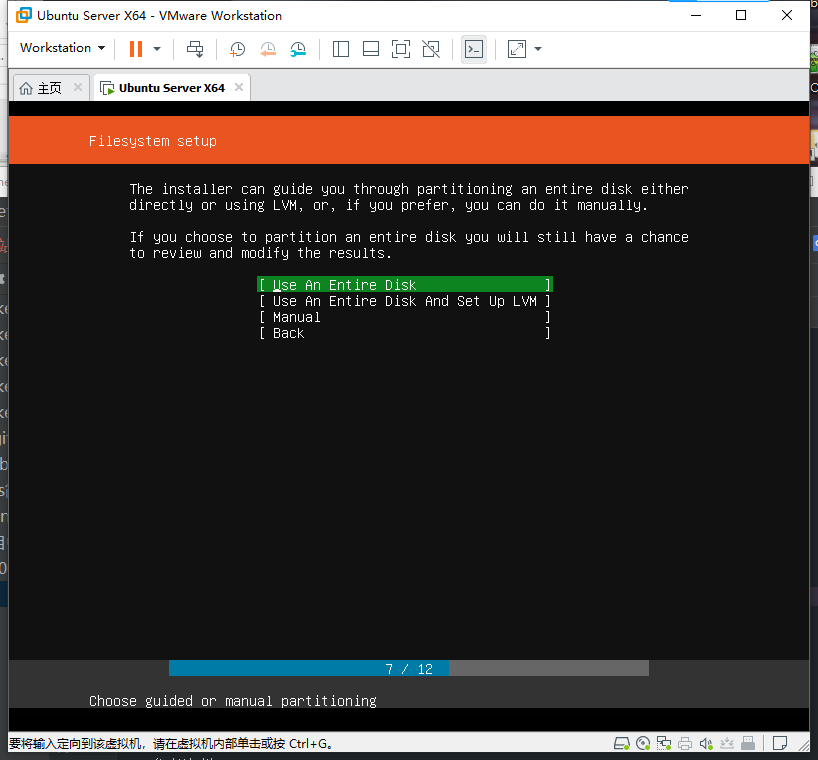
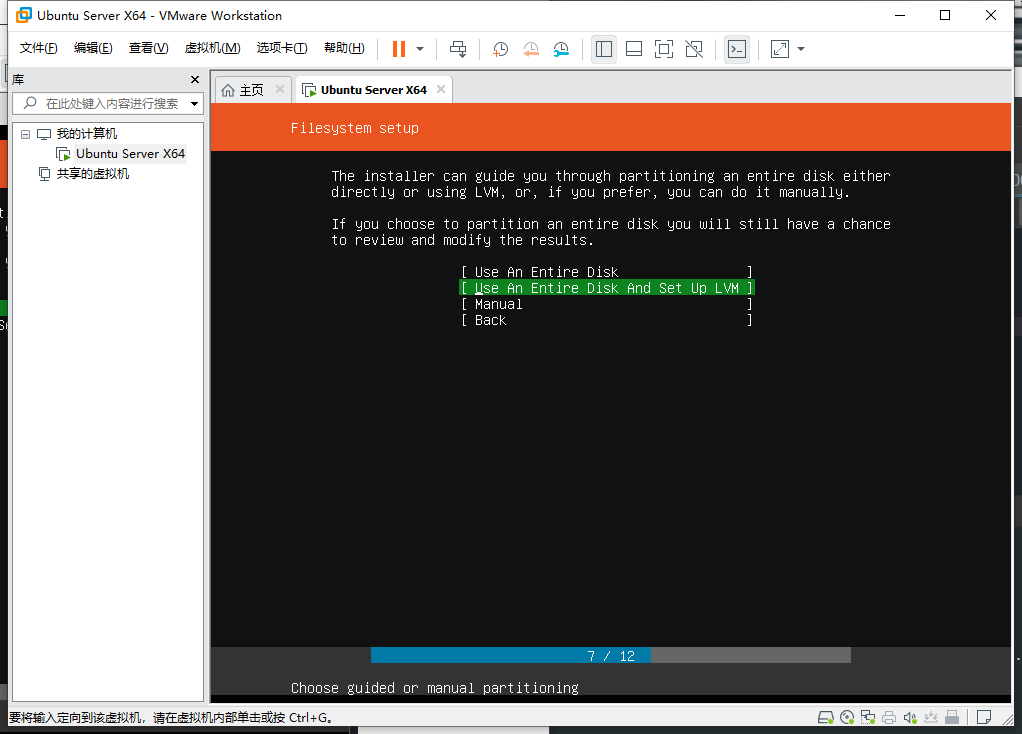
VMware虚拟工作站00-安装与使用Linux篇00

diff --git a/source/_posts/VMware虚拟工作站00-安装与使用Linux篇00.md b/source/_posts/VMware虚拟工作站00-安装与使用Linux篇00.md
@@ -77,11 +77,15 @@ header-img:
 - 选择镜像地址,这里选择阿里云镜像,后面系统会安装东西.这样会快些.
 `http://mirrors.aliyun.com/ubuntu`
 ![](32.png)
-- 磁盘挂载,我选择的默认分配
+- 磁盘挂载,我选择的LVM
     - Use An entire Disk-使用整个磁盘
     - Use An Entire Disk And Set Up LVM-使用整个磁盘并设置
     - Manual-手动
     - Back-返回
+LVM是磁盘扩容技术，一定要选择LVM
+    500GB C /path
+    500GB D /path
+    如果没有需那种LVM那么扩容以后无法合并挂载点
 ![](33.png)
 ![](34.png)
     - Filesystem setup   文件系统设置
